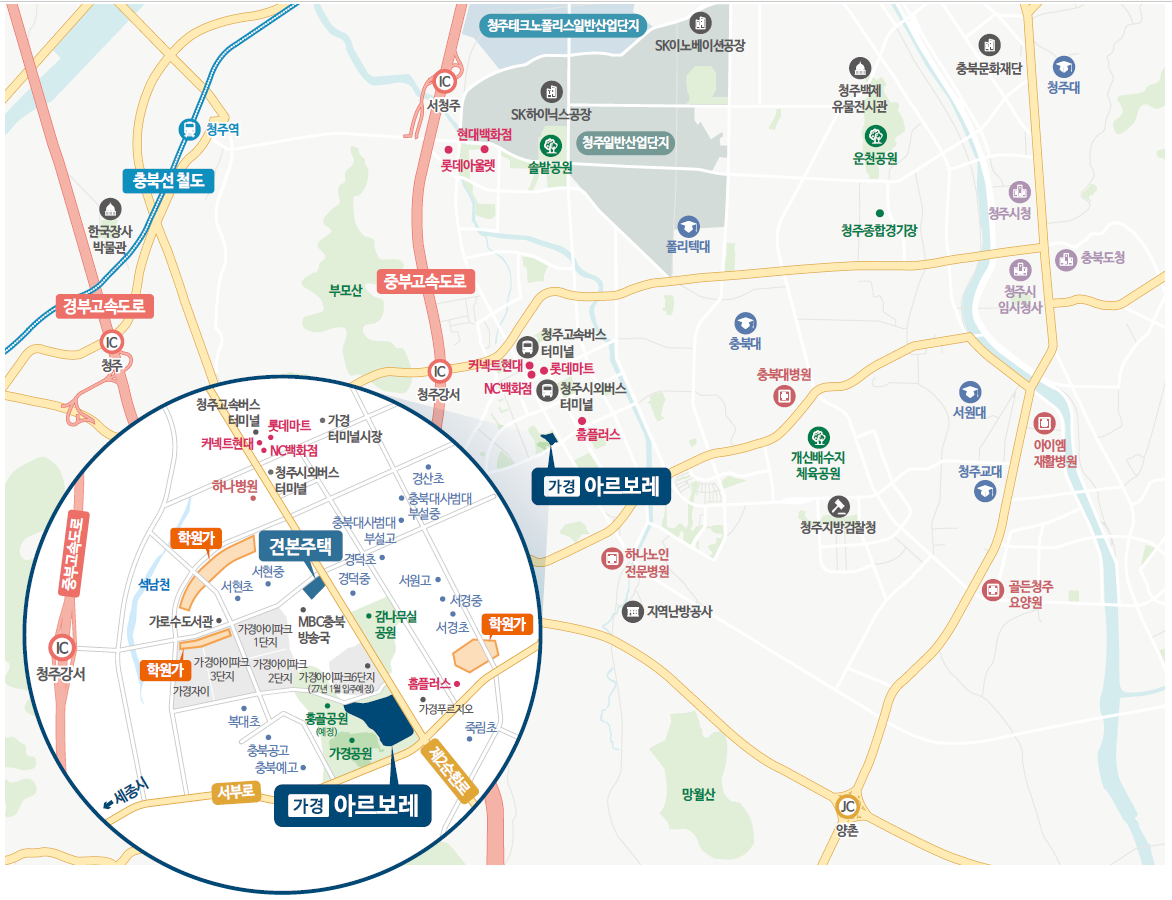
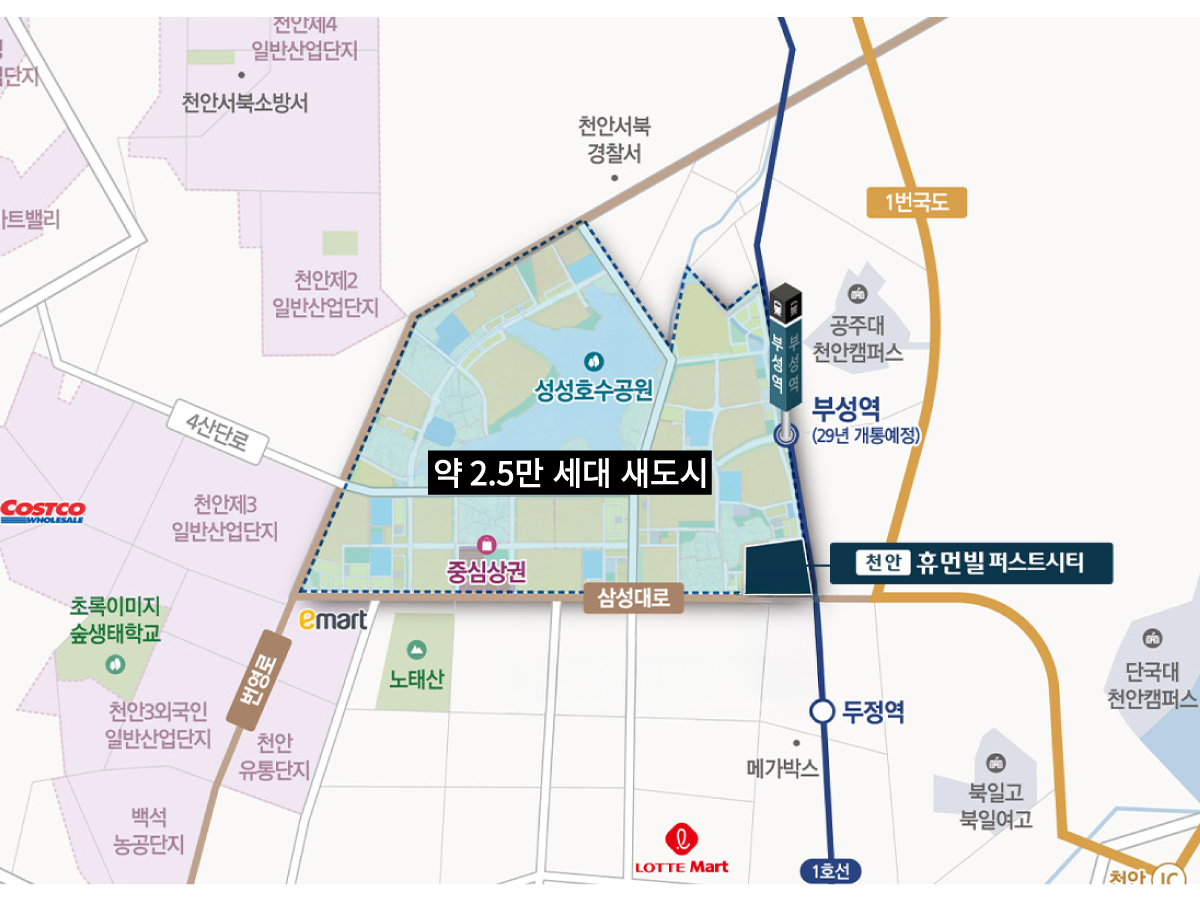
팝업사진변경 및 네이버폼추가

diff --git a/src/pages/Main/Main.jsx b/src/pages/Main/Main.jsx
@@ -503,7 +503,7 @@ const Main = () => {
 
 
             <div className={styles.text4}>
-              <a href="https://naver.me/55rUFpYq" target="_black">
+              <a href="https://naver.me/F3EI4Bsd" target="_black">
                 관심고객 등록하기 {">"}
               </a>
             </div>
